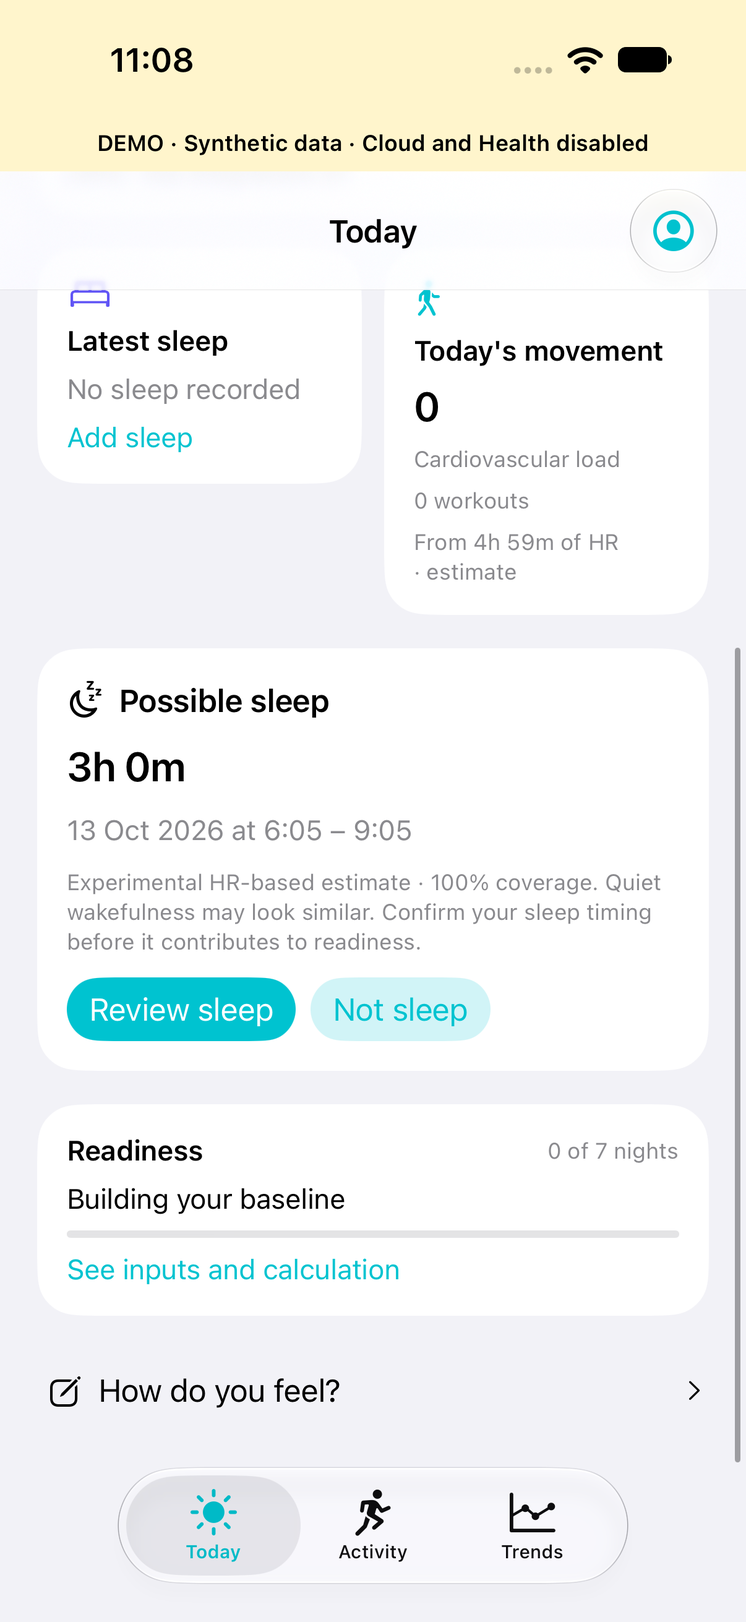
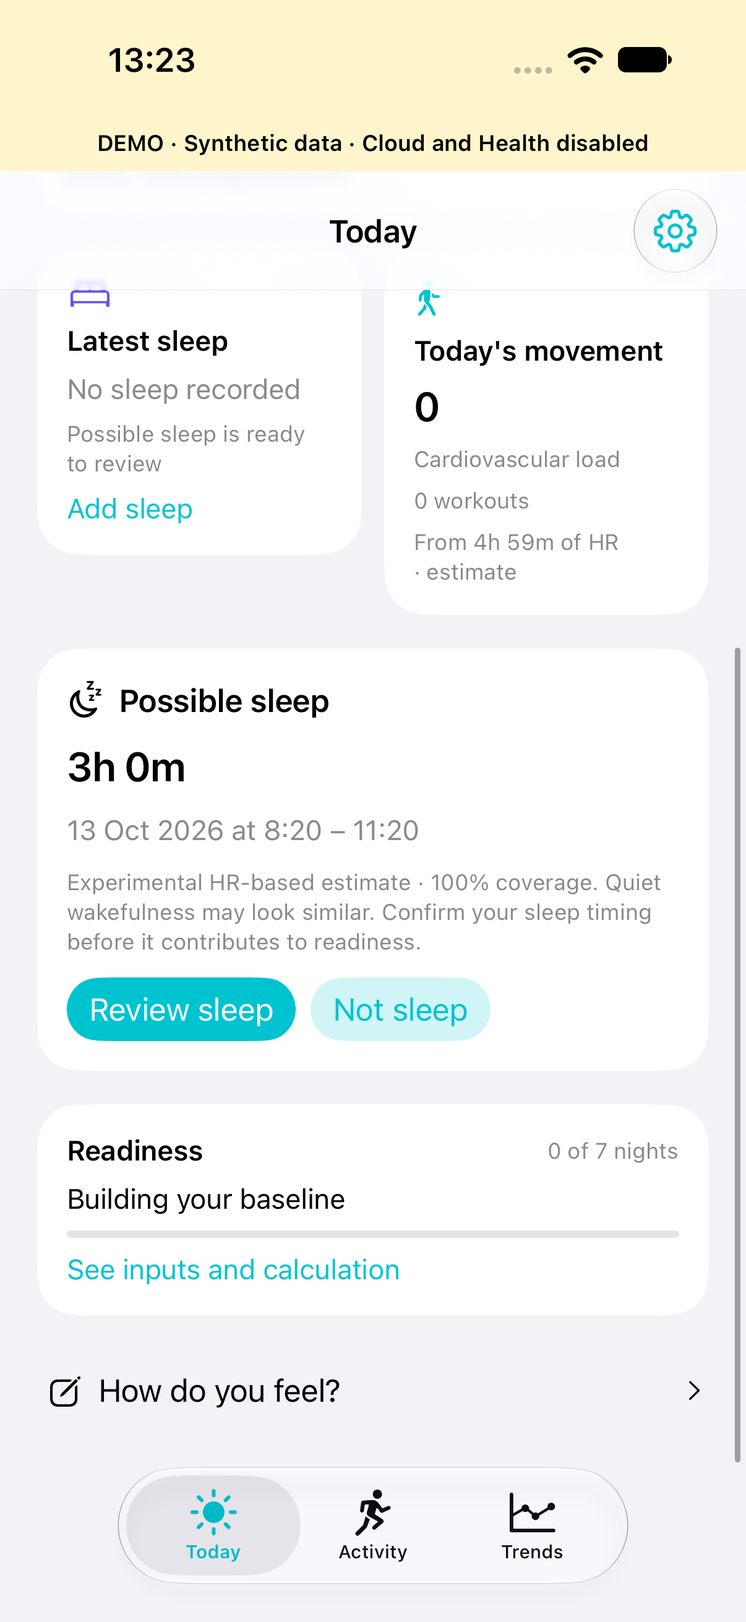
Refine Today battery and settings, clarify collection, and coalesce history analysis

diff --git a/Tempo/Services/AppModel.swift b/Tempo/Services/AppModel.swift
@@ -30,7 +30,9 @@ import WidgetKit
   private var lastActivityScanRequest: Date?
   var sleeps: [SleepSession] = []
   var sleepCandidates: [SleepCandidate] = []
+  var sleepDetectionStatus: SleepDetectionStatus = .waitingForHistory
   private var sleepAnalysisGeneration = 0
+  private var sleepAnalysisTask: Task<Void, Never>?
   var journals: [JournalEntry] = []
   var sourceSegments: [SourceSegment] = []
   var conflictEntities: [UUID] = []
@@ -229,16 +231,7 @@ import WidgetKit
         let existing = Set(self.measurements.map(\.id))
         self.measurements += samples.filter { $0.timestamp >= cutoff && !existing.contains($0.id) }
         self.latestReadings.ingest(samples, now: Date())
-        if let first = samples.map(\.timestamp).min(), let last = samples.map(\.timestamp).max() {
-          for sleep in self.sleeps.prefix(29) where sleep.start <= last && sleep.end > first {
-            let inputs = try? await store.nightInputs(sleep, sourceSegments: self.sourceSegments)
-            guard self.store === store, !self.demo else { return }
-            self.nightMetrics[sleep.id] = inputs
-          }
-        }
-        self.historyGeneration &+= 1
-        await self.refreshSleepCandidates()
-        self.refreshPresentedSummary()
+        self.scheduleSleepAnalysis()
         self.scheduleSnapshot()
       } catch {
         self.bluetooth.historyChunkFailed(
@@ -428,8 +421,25 @@ import WidgetKit
     refreshPresentedSummary()
     writeWidget()
   }
+  private func scheduleSleepAnalysis() {
+    sleepAnalysisTask?.cancel()
+    let expectedStore = store
+    sleepAnalysisTask = Task { [weak self] in
+      try? await Task.sleep(for: .seconds(2))
+      guard !Task.isCancelled, let self, self.store === expectedStore, !self.transitioningDataset else { return }
+      await self.refreshSleepCandidates()
+      guard !Task.isCancelled, !self.transitioningDataset, self.store === expectedStore, let store = expectedStore else { return }
+      for sleep in self.sleeps.prefix(29) {
+        let inputs = try? await store.nightInputs(sleep, sourceSegments: self.sourceSegments)
+        guard !Task.isCancelled, !self.transitioningDataset, self.store === expectedStore else { return }
+        self.nightMetrics[sleep.id] = inputs
+      }
+      self.historyGeneration &+= 1
+      self.refreshPresentedSummary()
+    }
+  }
   private func refreshSleepCandidates() async {
-    guard let store, !transitioningDataset else { sleepCandidates = []; return }
+    guard let store, !transitioningDataset else { sleepCandidates = []; sleepDetectionStatus = .waitingForHistory; return }
     sleepAnalysisGeneration += 1
     let generation = sleepAnalysisGeneration
     let records = measurements
@@ -442,12 +452,14 @@ import WidgetKit
     let proposed = await Task.detached(priority: .utility) {
       let canonical = CanonicalTimeline.select(records, sourceSegments: segments)
         .filter { sample in !sessions.contains { $0.isActive(at: sample.timestamp) } }
-      return SleepDetection.candidates(canonical, now: now).filter { candidate in
+      let candidates = SleepDetection.candidates(canonical, now: now).filter { candidate in
         !excluded.contains { $0.start < candidate.session.end && $0.end > candidate.session.start }
       }
+      return (candidates, SleepDetectionStatus.evaluate(canonical, now: now, hasCandidate: !candidates.isEmpty))
     }.value
-    guard generation == sleepAnalysisGeneration, self.store === store, !transitioningDataset else { return }
-    sleepCandidates = proposed.sorted { $0.session.end > $1.session.end }
+    guard !Task.isCancelled, generation == sleepAnalysisGeneration, self.store === store, !transitioningDataset else { return }
+    sleepCandidates = proposed.0.sorted { $0.session.end > $1.session.end }
+    sleepDetectionStatus = proposed.1
   }
   func dismissSleepCandidate(_ candidate: SleepCandidate) async throws {
     try await save(candidate.session, kind: "sleepDismissal")
@@ -856,8 +868,12 @@ import WidgetKit
       }
       try? await store?.insert(records)
       try? await load()
+      if ProcessInfo.processInfo.arguments.contains("--battery-ui-demo") {
+        bluetooth.battery[d.id] = try? BatteryReading.parse(Data([73]), at: Date())
+      }
       if ProcessInfo.processInfo.arguments.contains("--sleep-candidate-demo") {
         sleepCandidates = SleepDetection.candidates(records, now: now)
+        sleepDetectionStatus = SleepDetectionStatus.evaluate(records, now: now, hasCandidate: !sleepCandidates.isEmpty)
       }
     } else {
       store = nil

diff --git a/Tempo/Views/StatusViews.swift b/Tempo/Views/StatusViews.swift
@@ -17,6 +17,18 @@ struct BandStatusControl: View {
           VStack(alignment: .leading, spacing: 3) {
             Text(model.collectionDevice?.name ?? "Your bands").font(.subheadline.weight(.semibold))
             Text(status(fresh, now: context.date)).font(.caption).foregroundStyle(.secondary)
+            if (!model.demo || ProcessInfo.processInfo.arguments.contains("--battery-ui-demo")),
+              let device = model.collectionDevice, let battery = model.bluetooth.battery[device.id] {
+              HStack(spacing: 5) {
+                Image(systemName: battery.percent <= 25 ? "battery.25percent" : battery.percent <= 50 ? "battery.50percent" : battery.percent <= 75 ? "battery.75percent" : "battery.100percent").accessibilityHidden(true)
+                Text("\(battery.percent)%").monospacedDigit().accessibilityIdentifier("today-battery-percent")
+                if model.demo { Text("Demo battery") }
+                else if !battery.isFresh(at: context.date) { Text("Last reported · stale") }
+                else { Text("Band battery") }
+              }.font(.caption).foregroundStyle(.secondary)
+            } else if !model.demo, model.collectionDevice != nil {
+              Text("Band battery unavailable").font(.caption).foregroundStyle(.secondary)
+            }
           }
           Spacer()
           Image(systemName: "chevron.right").font(.caption).foregroundStyle(.secondary)
@@ -168,7 +180,7 @@ struct BandStatusSheet: View {
             }
           }
           Text(
-            "Live receipt is separate from stored history. Whoop4 retrieval is experimental for supported firmware; Whoop5 history is not validated. Gaps remain visible until actual records arrive."
+            "Live receipt is separate from stored history. Firmware-bounded retrieval is experimental. Whoop5 transfer has succeeded on the owned50.42.1.0 band; other devices and retained periods still need validation. Gaps remain visible until actual records arrive."
           )
           .font(.caption).foregroundStyle(.secondary)
         }
@@ -630,6 +642,16 @@ struct TodayCollectionPanel: View {
             HStack(spacing: 4) {
               Text("Last reading")
               Text(sample.timestamp, style: .relative)
+            }
+          }
+          if !model.demo {
+            if let id = model.collectionDevice?.id, let stored = model.bluetooth.lastHistoryCommit[id] {
+              HStack(spacing: 4) {
+                Text("Band catch-up stored")
+                Text(stored, style: .relative)
+              }.accessibilityIdentifier("today-history-received")
+            } else {
+              Text("Band history not received yet").accessibilityIdentifier("today-history-unavailable")
             }
           }
           if model.demo {

diff --git a/Tempo/Views/RootView.swift b/Tempo/Views/RootView.swift
@@ -70,40 +70,13 @@ struct RootView: View {
   }
   @ToolbarContentBuilder var statusControl: some ToolbarContent {
     ToolbarItem(placement: .topBarTrailing) {
-      TimelineView(.periodic(from: .now, by: 60)) { context in
-        Button {
-          settings = true
-        } label: {
-          HStack(spacing: 8) {
-            if !model.demo, let device = model.collectionDevice,
-              model.bluetooth.isConnected(device.id),
-              let battery = model.bluetooth.battery[device.id], battery.isFresh(at: context.date)
-            {
-              Label(
-                "\(battery.percent)%",
-                systemImage: battery.percent <= 25
-                  ? "battery.25percent"
-                  : (battery.percent <= 50
-                    ? "battery.50percent"
-                    : (battery.percent <= 75 ? "battery.75percent" : "battery.100percent"))
-              )
-              .font(.caption.weight(.medium)).monospacedDigit()
-            }
-            Image(
-              systemName: model.bluetooth.connected.isEmpty
-                ? "person.crop.circle" : "person.crop.circle.badge.checkmark")
-          }
-        }.accessibilityLabel("Bands, sync and settings")
-          .accessibilityValue(batteryAccessibility(at: context.date))
-      }
+      Button { settings = true } label: {
+        Image(systemName: "gearshape")
+      }.accessibilityLabel("Bands, sync and settings")
+        .accessibilityIdentifier("tempo-settings")
     }
   }
-  private func batteryAccessibility(at now: Date) -> String {
-    guard !model.demo, let device = model.collectionDevice, model.bluetooth.isConnected(device.id),
-      let battery = model.bluetooth.battery[device.id], battery.isFresh(at: now)
-    else { return "" }
-    return "\(device.name), reported battery \(battery.percent) percent"
-  }
+
 }
 struct ContentSection<Content: View>: View {
   var title: String

diff --git a/Tests/TempoUITests/TempoUITests.swift b/Tests/TempoUITests/TempoUITests.swift
@@ -16,6 +16,21 @@ final class TempoUITests: XCTestCase {
     XCTAssertTrue(app.descendants(matching: .any)["today-sleep-summary"].firstMatch.waitForExistence(timeout: 10))
     XCTAssertFalse(app.buttons["review-possible-sleep"].exists)
   }
+  @MainActor func testSettingsAndReportedBatteryHaveSeparateMeaning() {
+    let app = XCUIApplication()
+    app.launchArguments = ["--ui-testing", "--demo", "--battery-ui-demo"]
+    app.launch()
+    XCTAssertTrue(app.buttons["tempo-settings"].waitForExistence(timeout: 20))
+    XCTAssertTrue(app.staticTexts["today-battery-percent"].exists)
+    XCTAssertEqual(app.staticTexts["today-battery-percent"].label, "73%")
+    XCTAssertTrue(app.staticTexts["today-header-battery-percent"].exists)
+    XCTAssertTrue(app.staticTexts["today-header-battery-percent"].isHittable)
+    XCTAssertGreaterThanOrEqual(app.staticTexts["today-header-battery-percent"].frame.width, 45)
+    let shot = XCTAttachment(screenshot: app.screenshot())
+    shot.name = "today-battery-demo"; shot.lifetime = .keepAlways; add(shot)
+    app.buttons["tempo-settings"].tap()
+    XCTAssertTrue(app.navigationBars["Settings"].waitForExistence(timeout: 5))
+  }
   @MainActor func testEmptyStatesAndTabs() {
     let app = XCUIApplication()
     app.launchArguments = ["--ui-testing"]
@@ -23,6 +38,8 @@ final class TempoUITests: XCTestCase {
     XCTAssertTrue(app.tabBars.buttons["Today"].waitForExistence(timeout: 10))
     XCTAssertTrue(app.staticTexts["Building your baseline"].exists)
     XCTAssertTrue(app.staticTexts["tempo-brand-name"].exists)
+    XCTAssertTrue(app.staticTexts["today-history-unavailable"].exists)
+    XCTAssertTrue(app.staticTexts["sleep-collection-explanation"].exists)
     app.tabBars.buttons["Activity"].tap()
     XCTAssertTrue(app.buttons["Start Padel"].waitForExistence(timeout: 5))
     app.buttons["Start Padel"].tap()

diff --git a/Tempo/Views/TodayView.swift b/Tempo/Views/TodayView.swift
@@ -31,6 +31,14 @@ struct TodayView: View {
           Text(Date(), format: .dateTime.weekday(.abbreviated).month(.abbreviated).day())
             .font(.subheadline).foregroundStyle(.secondary)
         }
+        if (!model.demo || ProcessInfo.processInfo.arguments.contains("--battery-ui-demo")),
+          let device = model.collectionDevice, let battery = model.bluetooth.battery[device.id],
+          battery.isFresh(at: Date()) {
+          Label("Band \(battery.percent)%", systemImage: "battery.75percent")
+            .font(.subheadline.weight(.medium)).monospacedDigit().foregroundStyle(.teal)
+            .accessibilityIdentifier("today-header-battery-percent")
+            .accessibilityLabel("Reported band battery \(battery.percent) percent")
+        }
         Text(readiness.score == nil ? "Your day, at a glance" : headline(readiness))
           .font(.title2.weight(.semibold)).fixedSize(horizontal: false, vertical: true)
         if let score = readiness.score {
@@ -143,6 +151,7 @@ struct TodayView: View {
           Text(value.title).font(.subheadline.weight(.semibold)).accessibilityIdentifier(
             "today-sleep-summary")
           Text("No sleep recorded").font(.subheadline).foregroundStyle(.secondary)
+          Text(model.sleepDetectionStatus.message).font(.caption).foregroundStyle(.secondary).accessibilityIdentifier("sleep-collection-explanation")
           Button("Add sleep") { sleep = true }.font(.subheadline)
         }.frame(maxWidth: .infinity, alignment: .leading)
       }

diff --git a/Sources/TempoCore/Presentation.swift b/Sources/TempoCore/Presentation.swift
@@ -330,3 +330,21 @@ public enum SleepDetection {
     }
   }
 }
+
+public enum SleepDetectionStatus: Sendable, Equatable {
+  case waitingForHistory, insufficientCoverage, noCandidate, reviewAvailable
+  public static func evaluate(_ input: [Measurement], now: Date, hasCandidate: Bool) -> Self {
+    if hasCandidate { return .reviewAvailable }
+    let seconds = Set(input.filter { $0.kind == .heartRate && $0.valid && $0.value >= 30 && $0.value <= 220 && $0.timestamp <= now && $0.timestamp >= now.addingTimeInterval(-48*3600) }.map { Int($0.timestamp.timeIntervalSince1970) })
+    if seconds.isEmpty { return .waitingForHistory }
+    return seconds.count < 4*3600 ? .insufficientCoverage : .noCandidate
+  }
+  public var message: String {
+    switch self {
+    case .waitingForHistory: "Waiting for recorded heart rate"
+    case .insufficientCoverage: "More recorded heart rate is needed to suggest sleep"
+    case .noCandidate: "No sleep suggestion yet; recorded heart rate does not show a qualifying pattern"
+    case .reviewAvailable: "Possible sleep is ready to review"
+    }
+  }
+}

diff --git a/Tempo/Services/BluetoothService.swift b/Tempo/Services/BluetoothService.swift
@@ -515,8 +515,14 @@ final class BluetoothService: NSObject, @preconcurrency CBCentralManagerDelegate
       body: Data([link.generation == .whoop4 ? 0 : 1]))
   }
   private func sendHistoryCommand(_ id: UUID, command: UInt8, body: Data) {
-    guard let p = historyPeripheral(id), let link = historyLinks[id], link.sequence <= 250,
-      link.pending.count < 4,
+    guard let p = historyPeripheral(id), let link = historyLinks[id] else { return }
+    if HistorySequenceBudget.requiresReconnect(nextSequence: link.sequence) {
+      link.stopTransfer()
+      historyStatus[id] = "Refreshing history connection · stored chunks retained"
+      poweredCommand { $0.cancelPeripheralConnection(p) }
+      return
+    }
+    guard link.pending.count < 4,
       let c = p.services?.first(where: {
         $0.uuid == (link.generation == .whoop4 ? Self.service4 : Self.service5)
       })?.characteristics?.first(where: {

diff --git a/Tests/TempoCoreTests/SleepDetectionTests.swift b/Tests/TempoCoreTests/SleepDetectionTests.swift
@@ -33,3 +33,12 @@ final class SleepDetectionTests: XCTestCase {
     XCTAssertTrue(SleepDetection.candidates(Array(records().prefix(8*3600)), now: start.addingTimeInterval(8*3600)).isEmpty)
   }
 }
+
+extension SleepDetectionTests {
+  func testSleepStatusExplainsMissingRecordsWithoutInventingTiming() {
+    XCTAssertEqual(SleepDetectionStatus.evaluate([], now: start, hasCandidate: false), .waitingForHistory)
+    XCTAssertEqual(SleepDetectionStatus.evaluate(Array(records().prefix(60)), now: start.addingTimeInterval(12*3600), hasCandidate: false), .insufficientCoverage)
+    XCTAssertEqual(SleepDetectionStatus.evaluate(records(), now: start.addingTimeInterval(12*3600), hasCandidate: true), .reviewAvailable)
+    XCTAssertEqual(SleepDetectionStatus.evaluate(records(), now: start.addingTimeInterval(12*3600), hasCandidate: false), .noCandidate)
+  }
+}

diff --git a/Tests/TempoCoreTests/Whoop5HistoryTests.swift b/Tests/TempoCoreTests/Whoop5HistoryTests.swift
@@ -306,3 +306,11 @@ final class HistoryBondRecoveryTests: XCTestCase {
     XCTAssertTrue(recovery.shouldReconnect(device))
   }
 }
+
+final class HistorySequenceBudgetTests: XCTestCase {
+  func testReconnectBeforeReusingOrTruncatingSequence() {
+    XCTAssertFalse(HistorySequenceBudget.requiresReconnect(nextSequence: 250))
+    XCTAssertTrue(HistorySequenceBudget.requiresReconnect(nextSequence: 251))
+    XCTAssertTrue(HistorySequenceBudget.requiresReconnect(nextSequence: 256))
+  }
+}

diff --git a/Sources/TempoCore/HistoryTransfer.swift b/Sources/TempoCore/HistoryTransfer.swift
@@ -236,3 +236,7 @@ public struct HistoryBondRecovery: Sendable {
   public mutating func shouldReconnect(_ device: UUID) -> Bool { attempted.insert(device).inserted }
   public mutating func confirmedSuccess(_ device: UUID) { attempted.remove(device) }
 }
+
+public enum HistorySequenceBudget {
+  public static func requiresReconnect(nextSequence: Int) -> Bool { nextSequence > 250 }
+}

diff --git a/docs/HistoryRetrieval.md b/docs/HistoryRetrieval.md
@@ -1,27 +1,35 @@
 # Stored-band history and gaps
 
-Live receipt and stored-history transfer are separate capabilities. A worn band and current HR do not prove that earlier readings reached the phone or were stored in band flash. No invented samples or interpolation fill chart gaps.
+Live HR receipt and band-memory retrieval are separate. Neither wearing a band nor a current BPM proves that older measurements reached Tempo. Missing intervals remain visible; no interpolation supplies invented samples.
 
-WHOOP4: subscribe to documented custom channels, confirmed battery query, then application-version query7. Only a successful68-byte revision1 application reply reporting41.17.6.0 enables experimental command22/body00. Standard DIS firmware alone never enables it. START/END/COMPLETE and v24/v25 remain different records. Per-channel bounded reassembly rejects discarded bytes before any ACK; END with unresolved bytes on any subscribed channel is rejected conservatively rather than acknowledging an omitted partial frame. Unknown sensor layouts remain raw, never guessed metrics. The experimental v24 zero-contact flag preserves the measured value but excludes it from analytics; it is not promoted to verified off-body status. This prevents an uncertain charging-band reading filling a worn band’s gap.
+## Confirmed lifecycle
 
-A chunk permits at most2MiB/10,000 data frames; its closing END metadata is retained too. Its decoded observations, rejected-layout frames, all raw frames and original8-byte token commit atomically with FULL/WAL durability. Chunk decoding runs off the main actor; storage remains actor-owned. Recent backfill is labelled recent, never a live stream. Ordinary command23 receipt ACK uses01 plus that exact token only after commit, scoped to the same connection/session/dataset. This can permit reclamation of copied band data; forced trim/erase/reset commands are excluded. Empty/incomplete/special-token/damaged chunks cannot be acknowledged. Retries retain IDs; duplicate END handling only acknowledges an already committed token. COMPLETE does not commit an open chunk or prove gap-free coverage.
+WHOOP5 on iOS first writes the documented145/revision1 Hello with response, then subscribes to protected fd4b0003/4/5/7 channels after write confirmation. A second145 request over subscribed channels reads application firmware. Only50.42.1.0 enables range34; its65 semantic bytes plus two zero padding bytes are parsed. A positive backlog starts22/body00. A write acknowledgement alone never establishes available history or verified encryption.
 
-Each connection reads metadata once; supported W4 retrieval starts automatically after version confirmation and retries on foreground/live snapshot checks when15minutes old. Manual refresh requests a fresh attempt unless one is active. Transfers stop locally after120seconds; a bounded abort20 does not trim uncommitted data. Background wakeups remain subject to iOS. A finite background assertion protects chunk storage, not continuous execution. Force-quit and unvalidated firmware can leave gaps. Reconnect replay and oldest retained date require physical testing. A connection uses at most250 command sequences before reconnect is needed, avoiding unproven sequence-wrap reuse.
+WHOOP4 subscribes to its documented channels, queries battery26/body00 then application version7. Only read-confirmed41.17.6.0 enables experimental22/body00. Standard DIS version text alone does not enable history. Layouts and metadata are generation-specific.
 
-WHOOP5: subscribe to custom channels and read Hello145 application firmware. Only50.42.1.0 enables range34. Parse the65-byte semantic response plus its two zero padding bytes; refusal/timeout/zero estimates never imply recovered data. A positive estimate starts experimental22/body00. Independently evidenced W5/type49 END token21..<29 is retained exactly. The same bounded durability lifecycle stores original frames, mapped R18 primary HR and checkpoint before ordinary23 ACK. R18 opaque quality/cardio flags stay inspectable as qualityContext; wear remains unknown and raw RR is excluded from HRV. Unknown records remain raw for future reanalysis/backup. Repeated records use device/record-index/timestamp identity; both generations remain separated in raw archives and imports.
+## Integrity and durability
 
-The current [Noop12.0 report](https://github.com/ryanbr/noop/releases/tag/v12.0.0) describes some independent pairing contexts that cannot store/offload history. That is not diagnosis of the owner's band. Tempo does not clock-write, enable sensors, transfer certificates, bypass authentication or change firmware. If the band returns no backlog or invalid dates, the app cannot reconstruct missing readings. The owner showed firmware50.42.1.0; no physical history transfer success is yet established.
+Each notification channel has bounded CRC reassembly. Discarded bytes, unresolved fragments at END, malformed or partial chunks prevent acknowledgement. A chunk permits2MiB/10,000 data frames plus closing END. Source frames, decoded observations, rejected layouts and checkpoint commit atomically with WAL/FULL durability. Ordinary23 ACK is01 plus the exact original8-byte END token only after commit. W4 token starts17; independently evidenced W5 token starts21. Connection/session, transfer-attempt UUID and token guard asynchronous completion, preventing late commits from acknowledging a retry. Duplicate observations retain stable device/record-index/time identifiers across phones.
 
-Test procedure: update Tempo; open Today → band status, then inspect application firmware/history status. For W4 supported firmware, let a transfer finish, compare receipt timestamps against persisted history, disconnect briefly, reconnect and verify actual recovered records without duplicate activity. For W5, inspect read-confirmed application firmware/range/transfer status, last stored chunk and actual older HR timestamps. Lock the phone for15minutes, reopen and verify recovered records without duplicate counts. Do not equate transfer COMPLETE with gap-free coverage. A physical gap-recovery result is still required before this is daily-use ready. Personal captures stay private.
+R18 primary HR is decoded on the named W5 firmware. Opaque quality/cardio flags remain retained; RR/temperature/SpO2/wear are not inferred from them. Unknown records stay raw where supported, rather than becoming guessed metrics. Unqualified R18 is excluded from physiological analytics, Health export and activity detection, while labelled charts and experimental possible-sleep proposals can describe its recorded HR. Older source observations remain immutable.
 
-A connection/session, transfer-attempt UUID and original token scope asynchronous commit callbacks. A late callback from an earlier attempt cannot acknowledge or abort a retry even when its token repeats. Once a valid START arrives, command22 is no longer interrupted by the ordinary20-second reply wait; the finite120-second transfer deadline still applies. Complete/error/abort clears its pending request so a missing command reply cannot block retry. None of these software safeguards proves a physical transfer succeeded.
+## Recovery and limits
 
-Owned-band failure reported2026-10-13: WHOOP5 custom notification subscription failed before Hello, so no application-firmware confirmation, transfer or committed checkpoint was reached. Live HRS remains independent. The app now reports the failing characteristic prefix and NSError domain/code, and retries its normal notification subscription after2/4/8seconds within the same connection session. Exhaustion requests reconnect; reconnect starts a fresh budget. These retries do not alter authentication or bonds. The original device-side rejection and actual offload remain unverified.
+History is requested on supported connection and foreground/manual checks, with15minute freshness. Started streams are not cut off by the ordinary20second reply wait; total transfer deadline remains120seconds. Timeout abort20 does not trim uncommitted data. After the250-sequence budget, Tempo reconnects automatically instead of reusing an unverified command sequence; committed data survives and unacknowledged chunks may replay. Reconnection and large multi-hour transfers still need overnight testing.
 
-2026-10-13 owned-device diagnosis: owner screenshot shows FD4B0007/CBATTErrorDomain5; Apple SDK CBError.h defines5 as insufficient authentication. Owner confirms official WHOOP app connected to this same band on a separate main phone while Tempo runs on a test phone. Protected access is not established by standard HRS connectivity. Public [pairing guidance](https://github.com/ryanbr/noop#pairing-a-whoop-50--mg--read-this-first) reports a single protected bond. Test normal pairing with the main phone Bluetooth off, band in pairing mode, then Tempo disconnect/reconnect and any system pairing prompt. Reconnecting to the official app may require pairing again. Do not erase device memory or remove Tempo registration. Prior offloaded/reclaimed data may no longer be in band memory; access success does not promise all old gaps are recoverable. Security errors5/8/12/15 stop timer retries and show pairing guidance; no bond erasure, keys/certificates or authentication bypass are implemented.
+Sleep candidate analysis is coalesced2seconds after history commits, off the main actor, rather than delaying every incoming chunk. Cancelled/old-dataset analysis cannot publish results. iOS suspension and force-quit constraints still apply; Core Bluetooth does not guarantee uninterrupted execution. A finite background assertion protects storage, not continuous uptime.
 
-2026-10-13 follow-up after normal pairing did not resolve ATT5: identified a bootstrap dependency inversion. Tempo required all fd4b notifications before its first Hello. Current public iOS [BLE lifecycle research](https://github.com/ryanbr/noop/blob/main/Strand/BLE/BLEManager.swift) documents issuing the fixed145/revision1 Hello with response first, then subscribing in confirmed-write completion because pre-bond subscriptions can return insufficient authentication. This iOS-specific lifecycle refines the generic notification-first protocol-page description. Tempo's original handshake state machine now follows confirmed write → protected subscriptions → read-confirmed Hello metadata → range → history. Bootstrap does not wait for a response notification, and its write completion alone does not assert verified encryption or available history. A second normal145 read establishes firmware once notifications are active. Failed/timed-out bootstrap enables no subscriptions; finite20second bound, no automatic repeat Hello on characteristic rediscovery. No source implementation copied, no licence-derived code introduced, no clocks/keys/certificates/bond erasure. Owned-band validation remains required.
+ATT5/8/12/15 indicate protected-access failures. One normal fresh reconnect is attempted for a possible transient encryption race, with a2second session-scoped delay; persistent refusal is reported. The per-device budget resets after a committed history chunk. Normal OS pairing may be required; no firmware flashing, clocks, keys/certificates, read-pointer mutation, forced trim or authentication bypass are implemented.
 
-Physical CLI run2026-10-13: built with owner's signing configuration, installed over existing Tempo without deleting data, launched with opt-in `--history-diagnostics` and captured private stdout. Initial corrected-order Hello write itself returns ATT5; no stored frames/checkpoints. This confirms an authentication failure before transfer, not a chart/parser completion. Diagnostic tracing is off by default and emits history lifecycle status only, not physiological values or packet payloads. Manufacturer pairing guidance includes forgetting a stale WHOOP entry in iOS Bluetooth settings before normal re-pairing; this is distinct from deleting Tempo registry/history or device factory reset. Actual resolution is not established.
+## Physical evidence and retention
 
-Persistent-auth follow-up: owner confirms disconnect/unpair in official app and no system pairing entry/prompt. Private trace after re-registration shows ATT5/15 and a timed-out Hello; no history commit. Implemented one fresh normal BLE reconnect after a security refusal (2second delay, session-guarded), bounded once per registered device per process and rearmed only after a stored-history commit. This addresses a possible transient encryption race and does not guarantee fresh pairing. Persistent rejection remains explicit; no firmware/security bypass. Signed recovery build installed; first CLI launch was rejected because the test phone was locked, so physical recovery validation awaits an unlocked phone.
+On2026-10-13, the owned WHOOP5/50.42.1.0 completed Hello, protected subscriptions, metadata, range and stored-record transfer after normal iOS pairing. SQLite inspection confirms historical R18 observations, raw frames and a checkpoint, with actual older timestamps preceding the diagnostic launch. This validates a transfer on this particular band, not all firmware, overnight coverage, analytical quality or all past gaps.
+
+The returned range was recent; prior nights were absent. The reported trim-side time agreed with the returned start. Earlier offload/reclamation by another app is one possible explanation; available metadata does not prove every older flash page is recoverable. Do not promise unlimited retention or overwrite invasive cursors to recover already consumed history. For history available in Apple Health, optional sleep/workout/HR import is a separate provenance-labelled route; it depends on permission and actual Health records, not WHOOP cloud access by Tempo.
+
+The original generic notification-first profile was refined using current public [iOS BLE lifecycle research](https://github.com/ryanbr/noop/blob/main/Strand/BLE/BLEManager.swift). No implementation or personal packet fixtures were copied into the repository. Temporary raw capture was private, bounded, opt-in and removed from the shipping code; ordinary health payload logging stays off.
+
+## Overnight acceptance
+
+Keep the band paired with Tempo and avoid a competing collector. Let the phone lock normally; do not force-quit Tempo. Reopen in the morning, refresh, then check actual older sample timestamps, last stored chunk and coverage. A possible-sleep estimate needs qualifying sustained HR and review; no stages are promised. Confirm timing accuracy and investigate remaining gaps before closing the overnight/background gates. Transfer COMPLETE is not proof of gap-free coverage.

diff --git a/docs/Verification.md b/docs/Verification.md
@@ -1,32 +1,18 @@
-# Latest verification — 2026-10-13
+# Latest verification — 13 October 2026
 
-| Check | Evidence / boundary |
-|---|---|
-| Swift core |123 tests passed,0 failures;13 WHOOP5 history tests cover firmware/range/padding, R18 parsing, generation, idempotent archives, transaction rollback, quality exclusion, descriptive coverage, source priority, deadlines and late commits across retries |
-| Simulator |All19 UI tests passed; four affected-screen checks passed, followed by final capture/contrast reruns. Native app/extension compiled on installed iOS27 runtime, minimum target iOS26 |
-| iPhone compilation |Unsigned generic iPhoneOS build passes; this is not signing, installation or hardware validation |
-| Journal/workouts |Quick nullable ratings, same-day edit identity, notes/exertion first, missing-data summaries and native disclosures; read-only task reviews and UI regressions passed |
-| History software |Read-confirmed W4 41.17.6.0; W5 50.42.1.0 plus positive range. Durable raw/sample/checkpoint commit before normal ACK, independent generation layout and per-attempt callback scope |
-| Quality |Opaque R18 fields retained; excludes these records from physiological analytics, suggestions and Health export. Descriptive chart includes explicit experimental context; readiness1.2/night-cache3 |
-| Review |Final whole-branch review plus scoped attempt/deadline review found no concrete important blocker |
-| Gallery |14 unmodified successful-test simulator PNGs, synthetic or empty isolated datasets; checksum/dimension/timestamp provenance manifest. No owner health screenshot published |
+Software verification and physical collection evidence are separate.
 
-Reproducible local evidence: `/private/tmp/tempo-history-attempt-verified-core.log`, `/private/tmp/tempo-overnight-ui.xcresult` (full19), `/private/tmp/tempo-overnight-release-ui.xcresult` (four affected), `/private/tmp/tempo-journal-contrast-capture.xcresult`, `/private/tmp/tempo-shipping-captures.xcresult`, `/private/tmp/tempo-overnight-final-shipping-phone.log`. Intended failures were observed before fixes in decoder/range/quality/selection/chart/detection/deadline/attempt and navigation/journal/workout regressions. Test fixtures are original constructed packets, not captured proof of a band transfer.
+- Core: 134 tests passed in Debug and 134 in Release, including sleep coverage/missing-data states and history sequence reconnect boundaries.
+- Simulator: the final two focused tests passed for visible battery percentage/separate Settings and possible-sleep review/confirmation. Earlier affected-screen runs passed four Settings/product/accessibility capture tests and four battery/live/trends/activity tests. These are focused runs, not a new full-suite claim.
+- Signed iPhone Release build succeeded with the owner’s local signing configuration. Public project signing configuration was not changed.
+- Sixteen unmodified real simulator screenshots use isolated synthetic or empty datasets; checksums and test provenance are in screenshots/capture-manifest.json. Synthetic records never enter the normal cloud dataset.
 
-Physical bands tested by the implementation agent:0. Signed CloudKit/HealthKit integration sessions:0. The owner separately reports live Whoop5 HR, firmware50.42.1.0 and an updating widget timestamp. Those observations do not establish memory offload, overnight quality, background continuity, two-phone restore or full widget/Live Activity behavior. Actual W4/W5 history recovery remains C05/C02; signed lifecycle, source switching, cloud, Health and accessibility gates stay open in [Improvements](Improvements.md). QuartzCore/PointerUI/App Group messages remain documented without a physical-fix claim.
+## Physical evidence and remaining acceptance
 
-This is a buildable engineering implementation for physical testing, not a validated daily-use acceptance sign-off. Follow [the catch-up checklist](HardwareValidation.md#whoop5-504210-catch-up-acceptance).
+An owned Whoop 5 on firmware 50.42.1.0 successfully completed historical transfer after normal iOS pairing. The private database contained 2,632 durably stored historical HR readings, 3,067 retained frames and a checkpoint; SQLite integrity checked successfully. Returned older timestamps preceded the diagnostic launch. This proves recent catch-up on that instance, not unlimited retention or successful overnight sleep detection. Earlier overnight records were not returned. No personal payloads or screenshots are published.
 
-2026-10-13 notification-recovery follow-up:123 core tests pass (`/private/tmp/tempo-subscription-green.log`), including bounded independent-channel retry/reset regression with intended red failure first. Unsigned iPhone build succeeds (`/private/tmp/tempo-subscription-phone.log`). Previous19 UI tests were not rerun for this transport-only change. Owner screenshot confirms subscription failure, not successful history offload; physical recovery remains open.
+Tonight’s test remains open: keep Tempo as the band’s collector, reopen it tomorrow, verify actual overnight coverage and review any possible-sleep suggestion. HR-only possible sleep is experimental and requires confirmation; it does not reproduce Whoop’s staging or proprietary algorithms. Ambiguous quality flags remain excluded from physiological analytics.
 
-2026-10-13 possible-sleep implementation:127 core tests pass (`/private/tmp/tempo-sleep-final-core.log`); four new tests exercise covered rest, sparse/flat rejection, interrupted coverage/replay and unfinished rest. Focused review/save simulator test passes (`/private/tmp/tempo-sleep-ui-final.xcresult`); initial test failed on an incorrect title assertion, corrected to the stable sleep-summary identifier. Final unsigned iPhone build succeeds (`/private/tmp/tempo-sleep-final-phone.log`). Fifteenth genuine synthetic capture added with checksum. Prior full19 UI checks predate this feature. No owned-band sleep accuracy or timing validation performed; HR-only proposals require confirmation and motion-backed detection remains open.
+A prior physical CPU resource termination remains D05 in Improvements.md. Coalescing analysis after transfer chunks settle and using an optimised Release build do not establish that this problem is resolved.
 
-2026-10-13 pairing diagnosis: owner screenshot confirms FD4B0007 ATT5, defined in installed Apple SDK as insufficient authentication; owner reports same band connected to official app on another phone.128 core tests pass (`/private/tmp/tempo-pairing-core.log`), including security-domain/code classification with intended failure before implementation. Unsigned iPhone build passes (`/private/tmp/tempo-pairing-phone.log`). Ordinary protected pairing and historical offload still require the owner test; no proof of recovered nights/workouts.
-
-2026-10-13 bootstrap-order correction:130 core tests pass (`/private/tmp/tempo-handshake-core.log`), including confirmed-write-before-subscription and failure gating, with intended compile failure before implementation. Final unsigned iPhone build succeeds (`/private/tmp/tempo-handshake-final-phone.log`). Root cause in app control flow: waiting for protected subscriptions prevented the initial confirmed Hello write. Physical subscription/offload after correction remains unverified; no claim of recovered sleep/workouts.
-
-Actual signed iPhone run2026-10-13: `/private/tmp/tempo-physical-debug-build.log` build succeeded; installed and launched on connected owned test iPhone using preserved owner signing. Private console `/private/tmp/tempo-physical-history-console.log` confirms Hello write failure CBATTErrorDomain5 before protected subscriptions. Private DB integrity is valid with no stored history frames/checkpoints. Thus hardware authentication failure is reproduced, not resolved. This supersedes any assumption that catch-up succeeded; sleep/activity remain blocked by absent history.
-
-Follow-up131 core tests pass (`/private/tmp/tempo-physical-followup-core.log`), including an intended-failure-first regression preventing local refresh copy from implying device retrieval. Final unsigned iPhone build succeeds (`/private/tmp/tempo-physical-followup-phone.log`). Opt-in CLI tracing remains available for continued physical pairing investigation; no authentication/history success claimed.
-
-Bounded fresh-connection recovery:132 core tests pass (`/private/tmp/tempo-bond-recovery-core.log`) with first-use/limit/device-isolation/success-reset regression preceded by intended compile failure. Signed iPhone build succeeded (`/private/tmp/tempo-bond-recovery-signed.log`) and installed (`/private/tmp/tempo-bond-recovery-install.log`). CLI launch initially refused because phone locked (`/private/tmp/tempo-bond-recovery-console.log`); this is not a successful physical recovery test. Previous trace confirms persistent ATT5/15, and user confirms official app disconnected/unpaired. Owned-band recovery remains open.
+Reproduce software checks with `swift test` and `swift test -c release`, then build Tempo.xcworkspace / Tempo for an iPhone. Simulator captures do not prove Bluetooth, background execution or CloudKit restore.
